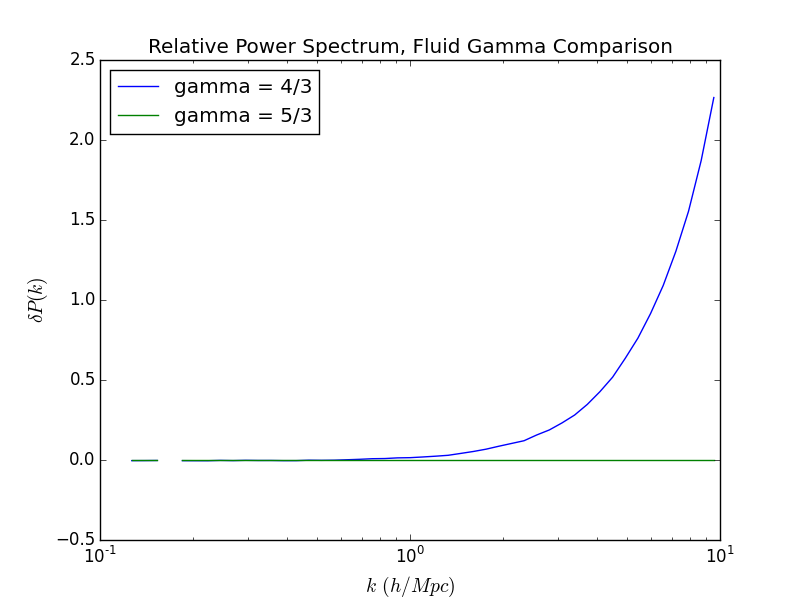
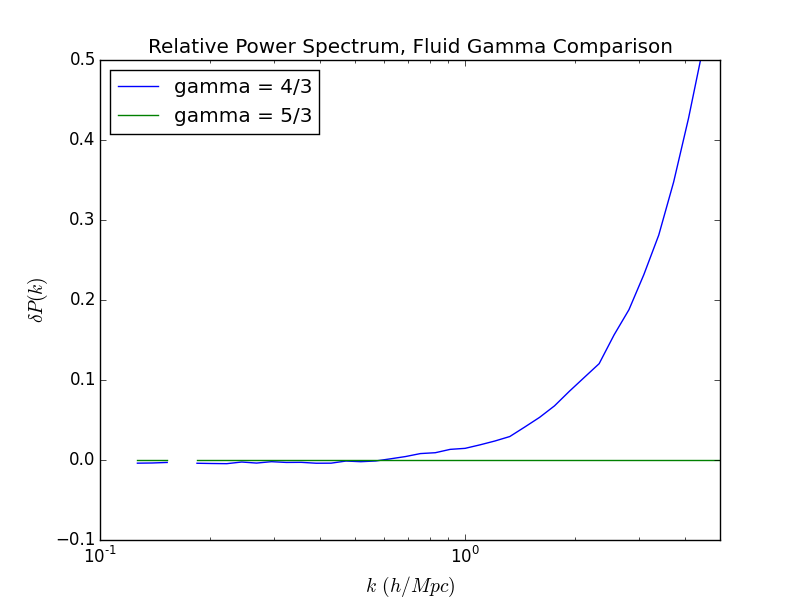
Fixed gamma plot range.

diff --git a/plots/gamma/gamma_fluid.py b/plots/gamma/gamma_fluid.py
@@ -18,7 +18,8 @@ for filename in filenames:
 	label = 'gamma = 4/3' if 'gamma43' in filename else 'gamma = 5/3'
 	plt.semilogx(kvalues, ps, style, label=label)
 
-plt.xlim([1e-1,1e1])
+plt.xlim([1e-1,5])
+plt.ylim([-0.1,0.5])
 plt.xlabel('$k \, (h/Mpc)$', fontsize=14)
 plt.ylabel('$\delta P(k)$', fontsize=14)
 plt.title('Relative Power Spectrum, Fluid Gamma Comparison')
